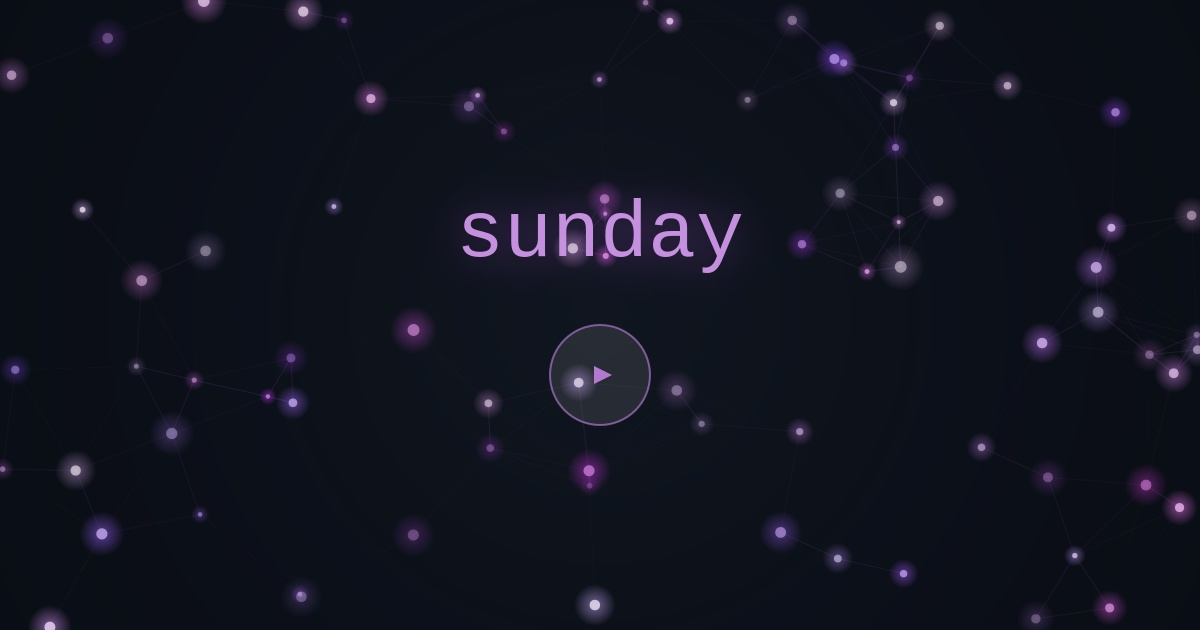
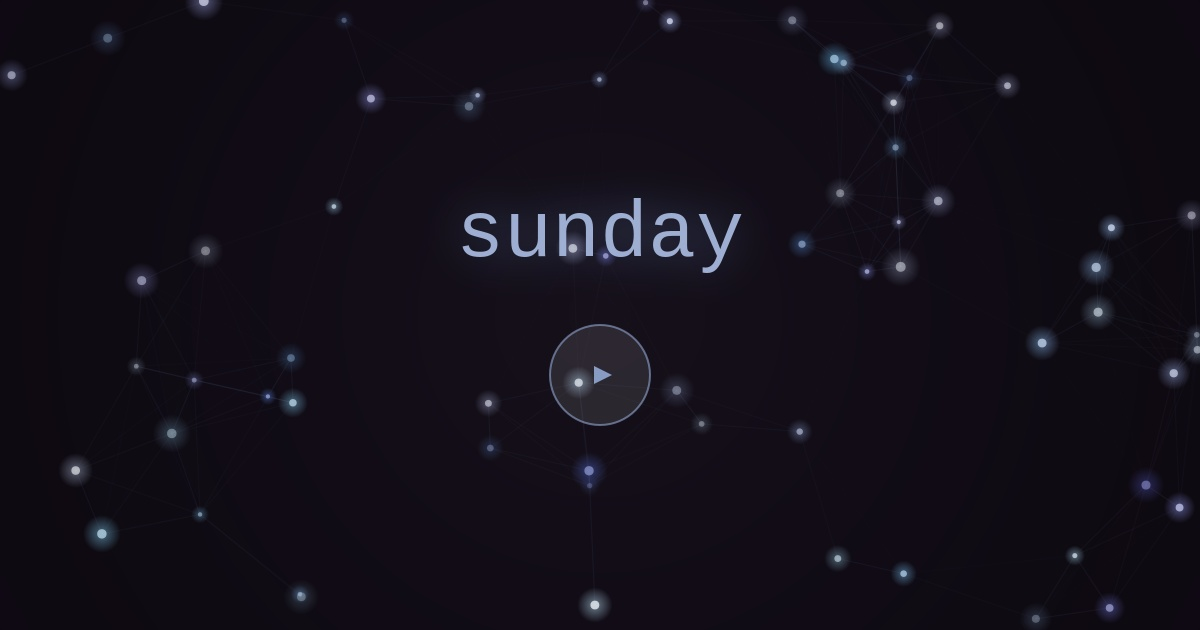
ok

diff --git a/sunday/index.html b/sunday/index.html
@@ -1,9 +1,9 @@
 <!DOCTYPE html>
 <!-- Generated by Audio Visualizer Build System -->
-<!-- Build ID: 4513c5d4 -->
+<!-- Build ID: abffc509 -->
 <!-- Title: sunday -->
-<!-- Treatment: typewriter -->
-<!-- Generated: 2025-10-17T21:20:03.022Z -->
+<!-- Treatment: word-flip -->
+<!-- Generated: 2025-10-17T21:27:44.287Z -->
 <html lang="en">
 <head>
     <meta charset="UTF-8">
@@ -16,23 +16,23 @@
 
     <!-- Open Graph / Facebook -->
     <meta property="og:type" content="website">
-    <meta property="og:url" content="">
+    <meta property="og:url" content="https://chadfowler.com/sunday/">
     <meta property="og:title" content="sunday">
     <meta property="og:description" content="Interactive audio visualizer with adaptive music analysis. Click to play and experience sunday.">
-    <meta property="og:image" content="preview.jpg">
+    <meta property="og:image" content="https://chadfowler.com/sunday/preview.jpg">
     <meta property="og:image:width" content="1200">
     <meta property="og:image:height" content="630">
     <meta property="og:site_name" content="Audio Visualizer">
-    <meta property="og:audio" content="sunday.mp3">
+    <meta property="og:audio" content="https://chadfowler.com/sunday/sunday.mp3">
     <meta property="og:audio:type" content="audio/mpeg">
 
     <!-- Twitter -->
     <meta property="twitter:card" content="player">
-    <meta property="twitter:url" content="">
+    <meta property="twitter:url" content="https://chadfowler.com/sunday/">
     <meta property="twitter:title" content="sunday">
     <meta property="twitter:description" content="Interactive audio visualizer with adaptive music analysis. Click to play and experience sunday.">
-    <meta property="twitter:image" content="preview.jpg">
-    <meta property="twitter:player" content="">
+    <meta property="twitter:image" content="https://chadfowler.com/sunday/preview.jpg">
+    <meta property="twitter:player" content="https://chadfowler.com/sunday/">
     <meta property="twitter:player:width" content="1200">
     <meta property="twitter:player:height" content="675">
 
@@ -44,7 +44,7 @@
         }
 
         body {
-            background: rgb(10, 15, 25);
+            background: rgb(15, 10, 20);
             font-family: -apple-system, BlinkMacSystemFont, 'Segoe UI', sans-serif;
         }
 
@@ -106,7 +106,7 @@
             left: 0;
             width: 100vw;
             height: 100vh;
-            background: rgba(10, 15, 25, 0.95);
+            background: rgba(15, 10, 20, 0.95);
             display: flex;
             align-items: center;
             justify-content: center;
@@ -148,10 +148,9 @@
             font-family: 'Courier New', monospace;
             white-space: nowrap;
             
-            letter-spacing: clamp(8px, 2vw, 25px);
-            overflow: hidden;
-            border-right: 2px solid rgba(100, 180, 200, 0.7);
-            white-space: nowrap;
+            display: flex;
+            gap: clamp(20px, 4vw, 60px);
+            letter-spacing: clamp(5px, 1vw, 15px);
         
             opacity: 1;
             transition: opacity 2s ease-out;
@@ -217,8 +216,8 @@
     <div id="clickOverlay">
         <div id="clickMessage">click anywhere</div>
     </div>
-    <div id="sundayText" data-treatment="typewriter">
-        <span class="typewriter">sunday</span>
+    <div id="sundayText" data-treatment="word-flip">
+        <span class="word">sunday</span>
     </div>
 
     <!-- Interaction instructions -->
@@ -1230,9 +1229,7 @@
 
             // Define 2-3 trigger points with some randomness (30%, 55%, 80% through song)
             const triggers = [
-                { time: 0.15 + Math.random() * 0.04, id: 1 },
-                { time: 0.45 + Math.random() * 0.04, id: 2 },
-                { time: 0.75 + Math.random() * 0.04, id: 3 }
+                { time: 0.50 + Math.random() * 0.04, id: 1 }
             ];
 
             // Check if we've passed any trigger points
@@ -1327,7 +1324,7 @@
             // Trail effect - HYPER-REACTIVE background fade
             // Faster fade on loud (more energy = clearer visuals), slower on quiet (more trails)
             const trailFade = 0.08 + audioData.avg * 0.25;  // 0.08 to 0.33
-            ctx.fillStyle = `rgba(10, 15, 25, ${trailFade})`;
+            ctx.fillStyle = `rgba(15, 10, 20, ${trailFade})`;
             ctx.fillRect(0, 0, canvas.width, canvas.height);
 
             // Calculate zoom based on audio intensity - adaptive to dynamic range
@@ -1718,7 +1715,7 @@
             // Hide overlay
             clickOverlay.classList.add('hidden');
 
-            // Fade out sunday text and all instructions
+            // Fade out sunday text and all instructions (longer delay for mobile)
             setTimeout(() => {
                 sundayText.classList.add('fadeOut');
                 instructions.forEach(inst => inst.classList.add('fadeOut'));
@@ -1727,8 +1724,8 @@
                 setTimeout(() => {
                     sundayText.classList.remove('fadeOut');
                     sundayLetters.forEach(letter => letter.style.opacity = '0');
-                }, 2000);
-            }, 500);
+                }, 4000);  // Increased from 2s to 4s
+            }, 2000);  // Increased from 500ms to 2s
 
             setupAudio();
             initParticles();
